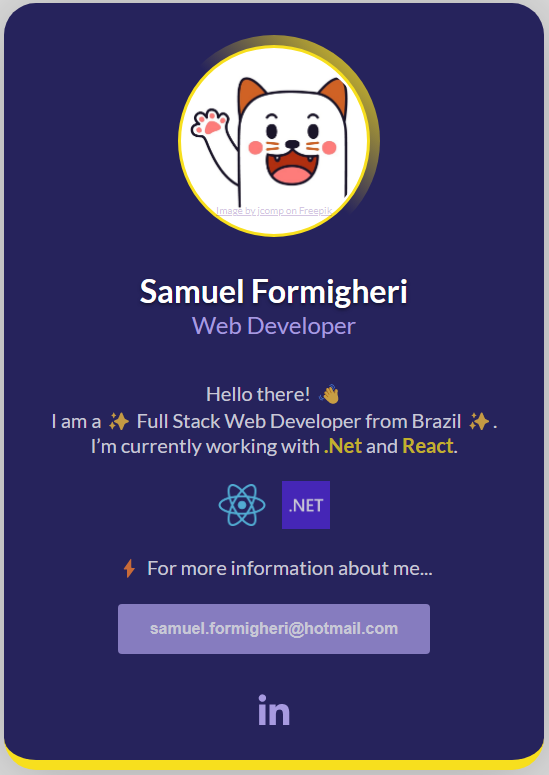
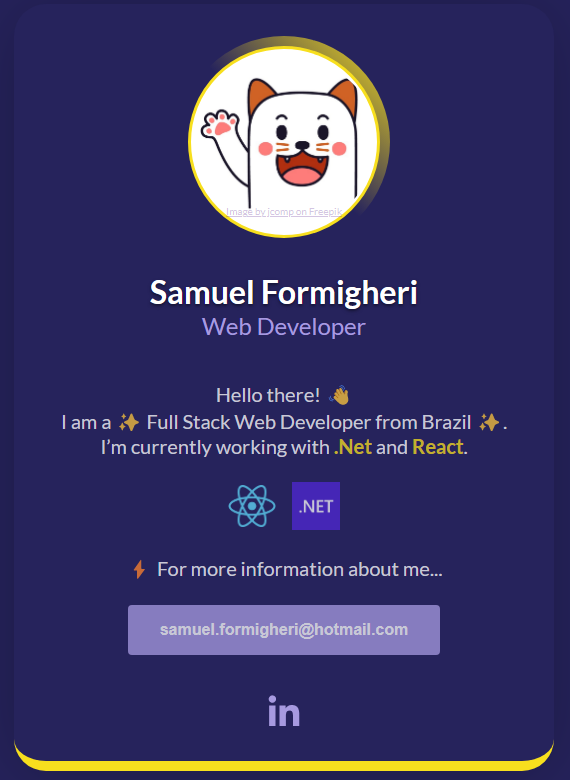
Update

diff --git a/index.html b/index.html
@@ -1,0 +1,58 @@
+<!DOCTYPE html>
+<html lang="en">
+
+<head>
+    <meta charset="UTF-8">
+    <meta http-equiv="X-UA-Compatible" content="IE=edge">
+    <meta name="viewport" content="width=device-width, initial-scale=1.0">
+    <link rel="preconnect" href="https://fonts.googleapis.com" />
+    <link rel="preconnect" href="https://fonts.gstatic.com" crossorigin />
+    <link href="https://fonts.googleapis.com/css2?family=Lato:wght@400;700&display=swap" rel="stylesheet" />
+    <link rel="stylesheet" href="styles.css">
+    <title>Card</title>
+</head>
+
+<body>
+
+    <div class="card-container">
+        <div class="img-full-container">
+            <div class="img-container">
+                <img src="./imgs/cat.jpg" alt="Profile Picture" />
+                <a class="img-credits-link"
+                    href="https://www.freepik.com/free-vector/expression-emotion-concept-set-cat-character-diffetent-animal-emotions_18779007.htm#query=cat%20avatars&position=10&from_view=keyword">Image
+                    by jcomp on Freepik
+                </a>
+            </div>
+        </div>
+        <header>
+            <h2>
+                Samuel Formigheri
+            </h2>
+            <h3>
+                Web Developer
+            </h3>
+        </header>
+        <main>
+            <span>
+                Hello there! 👋 <br />
+                I am a ✨ Full Stack Web Developer from Brazil ✨. <br />
+                I’m currently working with <strong>.Net</strong> and <strong>React</strong>. <br />
+            </span>
+            <div class="tech-imgs">
+                <img src="./imgs/react.png" alt="React" width="48px" />
+                <img src="./imgs/dotnet.png" alt=". Net" width="48px" />
+            </div>
+            <span> ⚡ For more information about me...</span>
+            <button class="email-button">
+                samuel.formigheri@hotmail.com
+            </button>
+        </main>
+        <a href="https://www.linkedin.com/in/samuel-formigheri-573047128/" target="_blank" rel="noopener noreferrer">
+            <img src="./imgs/linkedin.png" alt="Linkedin Icon" />
+        </a>
+    </div>
+
+
+</body>
+
+</html>

diff --git a/styles.css b/styles.css
@@ -1,0 +1,118 @@
+* {
+    box-sizing: border-box;
+}
+
+body {
+    background: #A79AE0;
+    color: #FFFFFF;
+    font-family: 'Lato', sans-serif;
+}
+
+h2 {
+    margin: 0;
+    font-size: 2rem;
+    text-shadow: 0px 2px 2px rgb(0 0 0 / 25%), 0px 2px 4px rgb(0 0 0 / 25%);
+}
+
+h3 {
+    margin: 0;
+    color: #A79AE0;
+    font-style: normal;
+    font-weight: 400;
+    font-size: 1.5rem;
+}
+
+header {
+    text-align: center;
+}
+
+.card-container {
+    display: flex;
+    flex-direction: column;
+    align-items: center;
+    max-width: 540px;
+    margin: 0 auto;
+    gap: 1.5rem;
+
+    padding: 2rem 1rem;
+    border-radius: 2rem;
+
+    box-shadow: 0px 4px 75px rgba(0, 0, 0, 0.25);
+
+    background: #26235C;
+
+    border-bottom: 10px solid #F7DF1E;
+}
+
+.img-full-container {
+    padding: 0.5rem;
+    border-radius: 50%;
+    border: 2px solid transparent;
+    background: linear-gradient(45deg, #26235C, #26235C, #F7DF1E) border-box;
+}
+
+.card-container .img-container {
+    position: relative;
+    display: flex;
+    align-items: center;
+    justify-content: center;
+
+    width: 12rem;
+    height: 12rem;
+
+    background: #FFF;
+    border: 3px solid #F7DF1E;
+    border-radius: 50%;
+}
+
+.card-container .img-container>img {
+    width: 90%;
+    border-radius: 35%;
+    /* border-image: linear-gradient(90deg, #26235C, #26235C, #F7DF1E) 1;
+    border-image-outset: 2rem; */
+}
+
+.img-credits-link {
+    bottom: 18px;
+    font-size: 10px;
+    position: absolute;
+    opacity: 0.25;
+}
+
+main {
+    padding: 1rem;
+    display: flex;
+    flex-direction: column;
+    opacity: 0.75;
+    gap: 1.5rem;
+    align-items: center;
+}
+
+main span {
+    text-align: center;
+    font-style: normal;
+    font-weight: 400;
+    font-size: 1.25rem;
+}
+
+main span strong {
+    color: #F7DF1E;
+}
+
+main .tech-imgs {
+    display: flex;
+    align-items: center;
+    justify-content: center;
+    gap: 1rem;
+}
+
+button {
+    background: #A79AE0;
+    color: #FFFFFF;
+    font-weight: bold;
+    font-size: 1rem;
+    border: none;
+    border-radius: 0.25rem;
+    padding: 1rem 2rem;
+    width: fit-content;
+}
